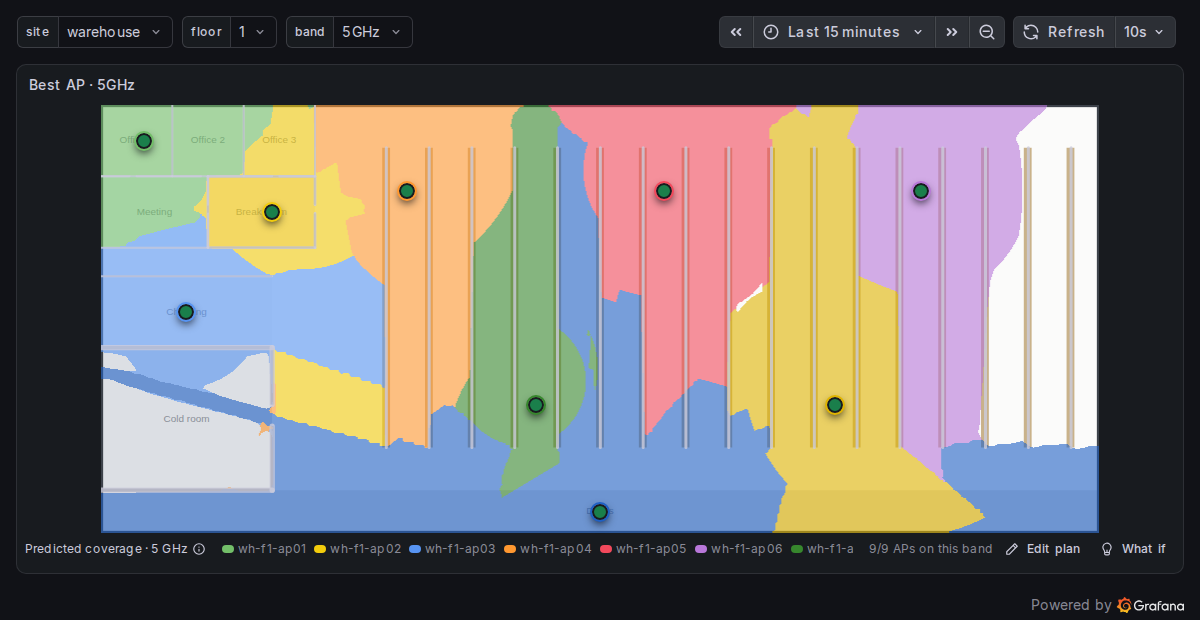
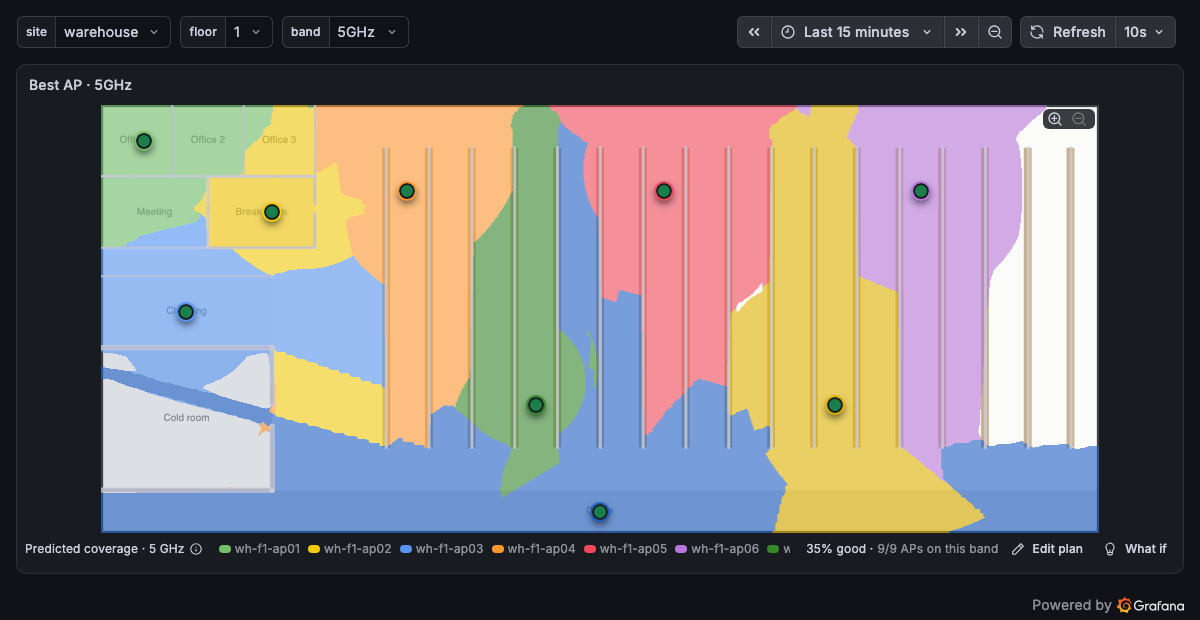
docs: take the catalog screenshots again, and add one of the what-if mode (#41)
The catalog screenshots dated from 0.1.0: they lacked the zoom buttons
and the share of good coverage in the legend.

- **Coverage** of the head office, light theme, and **best AP** view of
the warehouse, dark theme: same framing as before, taken again.
- **What-if mode**, new: an AP added in the auditorium and raised by 3
dB turns the red auditorium green, and good coverage goes from 57% to
71%. Listed in `plugin.json`.

Taken with Playwright on Grafana 13.3.1 in kiosk mode, 1200 x 620 like
the previous ones, from the dev site. The plugin validator accepts the
archive; it grows from 411 to 665 kB with the third image.

`plugin.json` changes: restart Grafana to see the new screenshot listed
in a local instance.

diff --git a/CHANGELOG.md b/CHANGELOG.md
@@ -11,6 +11,7 @@
 - Zoom and pan of the plan: Ctrl+wheel or a pinch at the pointer, buttons, drag to move; the map is painted for the part shown, so it stays sharp.
 - The legend gives the share of the floor in good coverage, and the share of each level on hover; it follows the what-if changes.
 - What-if mode: change the transmit power of an access point, real or added, from -20 to +10 dB on every band.
+- Catalog screenshots taken again with the zoom and the share of good coverage, and a third one of the what-if mode.
 - While an access point is dragged, the map is computed at a coarser resolution when needed to take about 40 ms, so that it follows the pointer on large floors; the full resolution comes back on release.
 
 ## 0.1.2 (2026-11-21)
